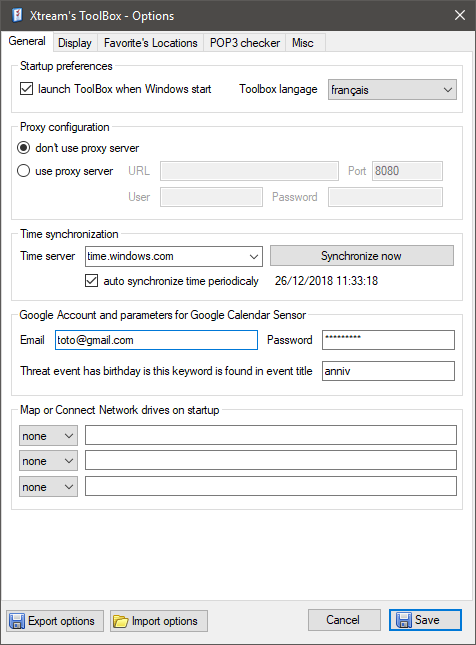
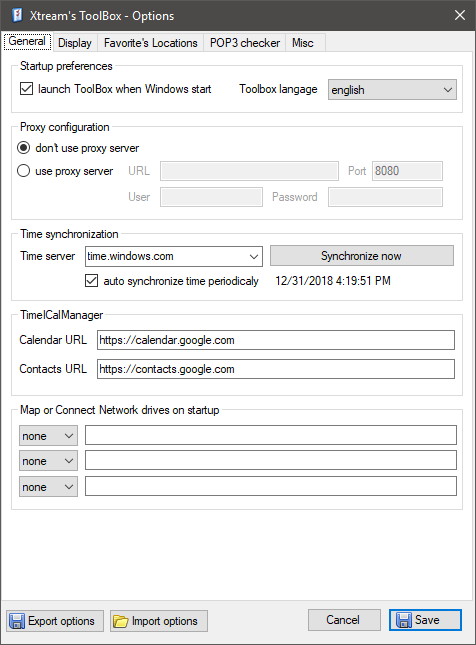
update README

Changed region(s): [[0.0294, 0.4031, 0.7647, 0.5891], [0.7059, 0.4031, 0.8235, 0.4651], [0.6765, 0.124, 0.7647, 0.155]]

diff --git a/README.md b/README.md
@@ -34,11 +34,11 @@
 - Auteur : Fabrice Deshayes aka Xtream
 - Compatibilité : Win 10 / 64 bits
 - Dll/packages utilisées :
-    - [C2DPushGraph by Stuart Konen](https://www.codeproject.com/articles/16634//Articles/16634/C2DPushGraph-A-Push-Graph-Control-2) (graph mode of System Info and Storage Sensor)
-	- [Newtonsoft by James Newton-King](https://github.com/JamesNK/Newtonsoft.Json)
-	- ShellShortcut.cs by Mattias Sjögren
+    - [C2DPushGraph by Stuart Konen](https://www.codeproject.com/articles/16634//Articles/16634/C2DPushGraph-A-Push-Graph-Control-2) (used in SystemInfos and Storage sensor)
+	- [Newtonsoft by James Newton-King](https://github.com/JamesNK/Newtonsoft.Json) (used in Weather sensor)
+	- ShellShortcut.cs by Mattias Sjögren (used in QuickLaunch sensor)
 	- NTPClient.cs by Valer BOCAN
-    - Google Data API (calendar)
+	- Analog Clock Control by Syed Mehroz Alam (used in AnalogClock sensor)
 - Icons :
     - IconBuffet studio
     - [Refreshcl by tpdk](https://www.deviantart.com/tpdkcasimir/art/Refresh-CL-Icons-Pack-25565201)
@@ -53,14 +53,14 @@ Les sensors disponibles sont (de gauche à droite sur le screenshot) :
 - KeyStatus
 - PowerStatus
 - SystemInfos
-- Spacer
-- AnalogClock
 - Storage
-- TimeManager
-- Weather
-- Inbox
 - Calc
 - Notepad
+- Inbox
+- Spacer
+- AnalogClock
+- TimeManager
+- Weather
 - Spacer
 - MyComputer
 - FavoriteLocations
@@ -125,7 +125,7 @@ Un clic avec le bouton gauche de la souris permet d’ouvrir le panneau d’exte
 
 ![TimeManager](screenshots/timemanager.png)
 
-Ce sensor affiche la date et l’heure courante. Via un clic sur l’icône, on peut accéder à un calendrier sommaire qui affiches les événements de son calendrier gmail (si on a saisi son login / mdp gmail dans les options) -> fonction expérimentale qui eut fonctionnée mais qui ne marche plus très bien.
+Ce sensor affiche la date et l’heure courante. Un clic gauche sur l’icône permet d'ouvrir le calendrier (google par défaut), un clic droit permet d'ouvrir les contacts (google par défaut). Voir les options pour configurer des URL de calendrier et contacts différentes.
 
 ### Weather
 
